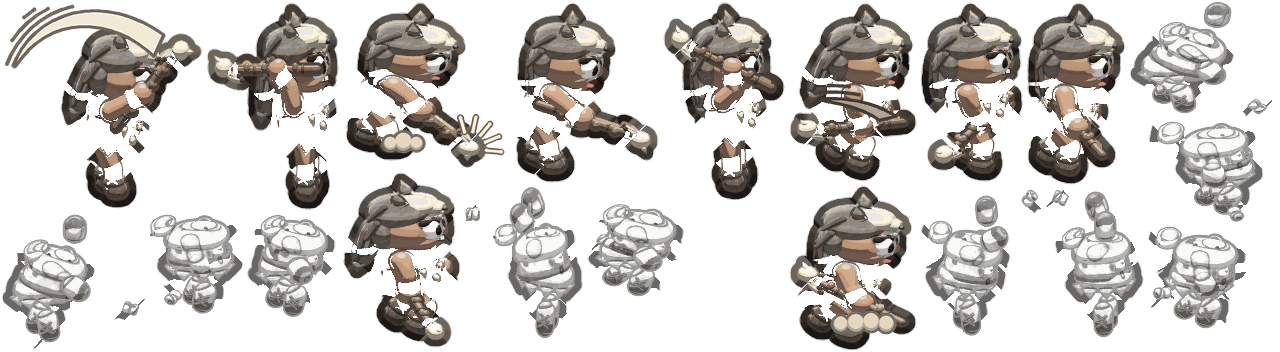
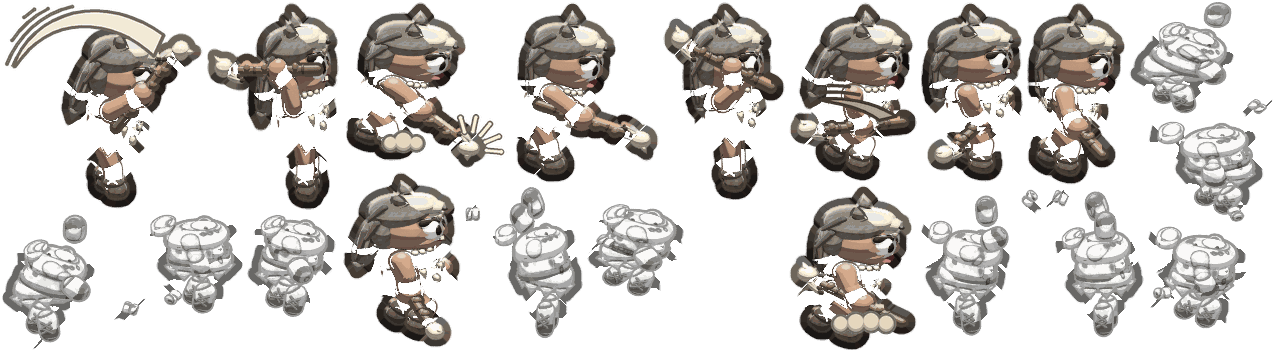
Art W1 Stone M6: Herbalist, Pelt Rager, Beast Caller to the highlight floor
Milestone 4 left these three soldiers at an idle-0 highlight share of
0.058-0.059, a hair under the infantry band's 0.06 (audit 5.2), with
LOOK_HIGHLIGHT already at the most the team overlay allows. A brighter top
rim (LOOK_RIM lift 0.62-0.7, full_lu 0.75-0.85) and one small bright accent
each lift them into the band: white flowers in the Herbalist's wreath, a
bear-claw necklace on the Pelt Rager, a cord of bone beads on the Beast
Caller's shawl. Idle-0 highlight now 0.061 / 0.065 / 0.061; team fill,
drift, colour rule and HD pixels as before; timing unchanged. The portraits
are cut from the new sheets' idle frame.

Checks: npm test 344 files (8312 passed), typecheck and lint green.

Claude-Session: https://claude.ai/code/session_01NfGD2JrsQPPo6oeDJ8LLwf

diff --git a/src/visuals/unitSheetPixels.gen.ts b/src/visuals/unitSheetPixels.gen.ts
@@ -168,7 +168,7 @@ export const UNIT_SHEET_PIXELS: Readonly<Record<string, readonly [number, number
   'stone/mammoth_matriarch@frost_matriarch': [8847360, 4229120, 2252800, 1126400],
   'stone/pebbler': [1820672, 1122304, 486400, 314880],
   'stone/pebbler@snowball_pebbler': [1806336, 1130496, 485376, 301056],
-  'stone/pelt_rager': [2015232, 519680, 544768, 135168],
+  'stone/pelt_rager': [2015232, 505344, 544768, 132608],
   'stone/rockfall_shaman': [1806336, 297984, 481280, 76800],
   'stone/sabertooth': [2551808, 522240, 673792, 135168],
   'stone/sabertooth@fossil_sabertooth': [2551808, 522240, 673792, 135168],

diff --git a/art/blender/units/pelt_rager.py b/art/blender/units/pelt_rager.py
@@ -51,14 +51,15 @@ PELT_LT = "#8E7666"       # lighter guard hair over the bear pelt (two tones, 30
 BEARD_LT = "#5E4C40"      # lighter bristles in the beard
 LEATHER_DK = "#56412F"
 CHEEK = "#BF967A"         # a ruddy cheek (17 levels under the skin)
+CLAW_TIP = "#FBF7EC"      # the necklace's polished claw tips
 
 DETAIL_STANDARD = True
 LOOK_HIGHLIGHT = 1.65   # over the soldiers' 1.35: highlight 0.055-0.057 at idle 0 with 1.45 (band 0.06-0.10)
 LOOK_SHADE = W1.SHADE_SOLDIER
-LOOK_RIM = W1.RIM_SOLDIER
+LOOK_RIM = dict(W1.RIM_SOLDIER, lift=0.7, full_lu=0.85)   # W1: a brighter top rim (idle highlight 0.058-0.059, band 0.06-0.10)
 MATERIAL_KINDS = W1.kinds({SKIN: "skin", BEARD: "fur", BEARD_LT: "fur", PELT: "fur", PELT_DK: "fur", PELT_LT: "fur",
                            SNOUT: "hide", NOSE: "hide", WOOD: "wood", WOOD_DK: "wood", BONE: "bone",
-                           LEATHER_DK: "leather", CHEEK: "skin", "team": "hide"})
+                           LEATHER_DK: "leather", CHEEK: "skin", "team": "hide", CLAW_TIP: "bone"})
 
 HIP_Y, SH_Y = 6.0, 12.6
 CLUB = 17.0
@@ -97,6 +98,11 @@ def build(rig):
     for side, y in (("r", -HIP_Y), ("l", HIP_Y)):
         W1.laces(rig, f"shin_{side}", 0.8, y - 3.85 if side == "r" else y - 3.6, 6.2, 10.8,
                  LEATHER_DK if side == "r" else CC.scale(LEATHER_DK, 0.8))
+    # W1: a necklace of three bear claws on a dark cord over the tunic (pale points: the idle highlight was 0.059)
+    W1.seam(rig, "torso", deco, [(10.8, 35.4), (8.2, 34.6), (5.6, 34.2), (3.0, 34.2)], fill=LEATHER_DK, w=0.9)
+    W1.claws(rig, "torso", [((h.x, h.y - 0.3, h.z), (0.1, -1.0)) for h in (deco.hit(9.4, 34.8), deco.hit(6.8, 34.3),
+                                                                         deco.hit(4.2, 34.1))],
+             BONE, CLAW_TIP, r=1.2, length=3.2)
     # team war-paint bands on both upper arms
     for side, y in (("r", -SH_Y), ("l", SH_Y)):
         g = Geo().capsule((0.6, y, 34.0), (1.3, y + (0.3 if y > 0 else -0.3), 29.0), 4.6, 4.4)

diff --git a/art/blender/units/herbalist.py b/art/blender/units/herbalist.py
@@ -51,14 +51,15 @@ HAIR_DK = "#9C968C"       # darker strands in the grey bun (two tones, 40 levels
 LEAF_DK = "#7E8A62"       # every other leaf of the wreath darker (two-tone wreath)
 LEATHER_DK = "#56412F"
 CHEEK = "#D49A8A"         # round rosy cheeks (saturation 0.35, 25 levels under the skin)
+FLOWER = "#F4EFE2"        # small white flowers in the wreath (bright points: the idle highlight was 0.059)
 
 DETAIL_STANDARD = True
 LOOK_HIGHLIGHT = 1.65   # over the soldiers' 1.35: highlight 0.055-0.057 at idle 0 with 1.45 (band 0.06-0.10)
 LOOK_SHADE = W1.SHADE_SOLDIER
-LOOK_RIM = W1.RIM_SOLDIER
+LOOK_RIM = dict(W1.RIM_SOLDIER, lift=0.62, full_lu=0.75)   # W1: a brighter top rim (idle highlight 0.058-0.059, band 0.06-0.10)
 MATERIAL_KINDS = W1.kinds({SKIN: "skin", HAIR: "fur", HAIR_DK: "fur", LEAF: "cloth", LEAF_DK: "cloth", HERB: "fur",
                            HERB_DK: "fur", LEATHER: "leather", LEATHER_DK: "leather", BONE: "bone", FUR: "fur",
-                           CHEEK: "skin", "team": "hide"})
+                           CHEEK: "skin", FLOWER: "bone", "team": "hide"})
 
 HIP_Y, SH_Y = 6.0, 11.6
 
@@ -122,6 +123,12 @@ def build(rig):
                                        (2.6, 1.5, 1.7), p=2.2)
     rig.part("head", g, LEAF)
     rig.part("head", g2, LEAF_DK)       # W1: a two-tone wreath
+    # W1: four small white flowers between the leaves on the near side
+    g = Geo()
+    for a in (-140, -100, -60, -20):
+        r = math.radians(a)
+        g.blob((1.0 + math.cos(r) * 9.9, math.sin(r) * 10.5, 52.6 + 1.2 * math.sin(2 * r)), (1.3, 1.0, 1.3), p=2.0)
+    rig.part("head", g, FLOWER, finish="gloss", outline=0.3)
     # W1: darker strands in the grey bun and down the back hair, round rosy cheeks, an ear
     W1.locks(rig, "head", [((-4.6, 60.0), (-8.0, 57.0), 1.3), ((-6.6, 50.4), (-10.0, 45.6), 1.3)], HAIR_DK, -9.0)
     W1.blush(rig, "head", face, 7.6, 43.0, 3.0, 2.3, CHEEK)

diff --git a/art/blender/units/beast_caller.py b/art/blender/units/beast_caller.py
@@ -58,7 +58,7 @@ CHEEK = "#B08A70"         # a cheek (16 levels under the skin)
 DETAIL_STANDARD = True
 LOOK_HIGHLIGHT = 1.65   # over the soldiers' 1.35: highlight 0.055-0.057 at idle 0 with 1.45 (band 0.06-0.10)
 LOOK_SHADE = W1.SHADE_SOLDIER
-LOOK_RIM = W1.RIM_SOLDIER
+LOOK_RIM = dict(W1.RIM_SOLDIER, lift=0.7, full_lu=0.85)   # W1: a brighter top rim (idle highlight 0.058, band 0.06-0.10)
 MATERIAL_KINDS = W1.kinds({SKIN: "skin", HAIR: "fur", SKULL: "bone", SKULL_DK: "bone", SOCKET: "bone", PELT: "fur",
                            PELT_DK: "fur", WOOD: "wood", WOOD_DK: "wood", BONE: "bone", FEATHER: "fur",
                            FEATHER_TIP: "fur", FUR: "fur", LEATHER_DK: "leather", CHEEK: "skin", "team": "hide"})
@@ -117,6 +117,10 @@ def build(rig):
     shawl_face = F.Face(rig, "torso", [g])
     rig.part("torso", g, team=True)
     W1.stripes(rig, "torso", shawl_face, [[(-4.0, 36.8), (-2.6, 30.6)], [(4.6, 37.0), (5.6, 30.8)]], w=1.6)
+    # W1: a cord of three bone beads over the shawl's front (pale points: the idle highlight was 0.058)
+    W1.seam(rig, "torso", shawl_face, [(10.2, 36.4), (7.6, 35.4), (5.0, 34.8), (2.4, 34.6)], fill=LEATHER_DK, w=0.9)
+    W1.beads(rig, "torso", [tuple(shawl_face.hit(x, z)) for x, z in ((8.8, 35.6), (6.2, 34.9), (3.6, 34.6))], BONE,
+             r=1.25)
     g = Geo()
     for k in range(6):
         a = -1.0 + k * 0.42
